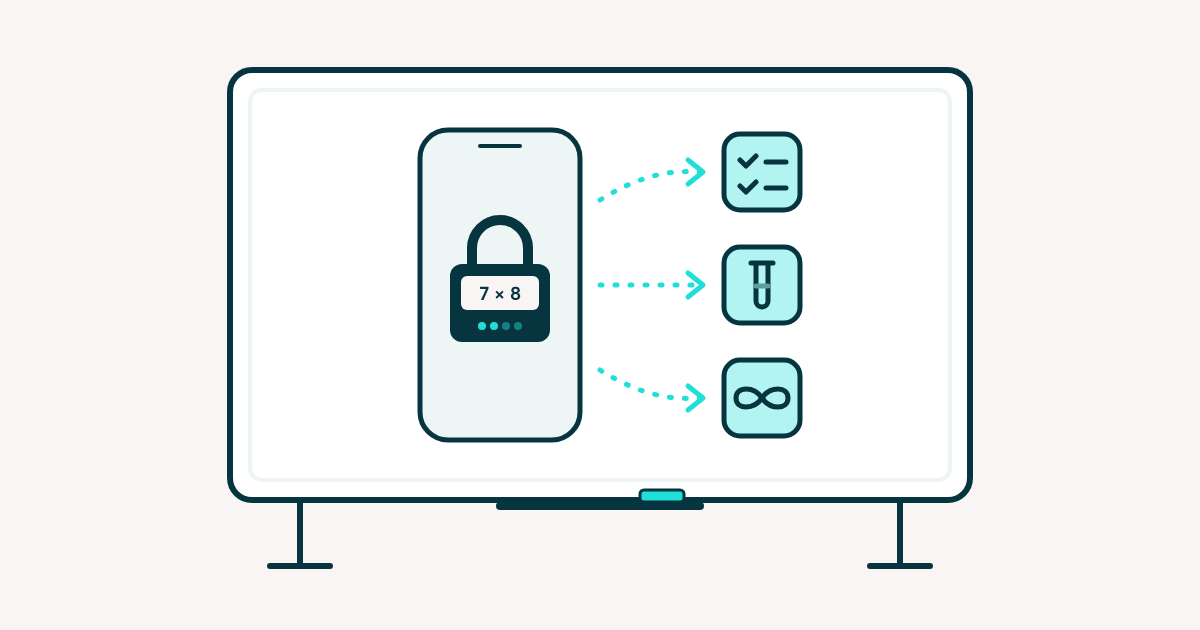
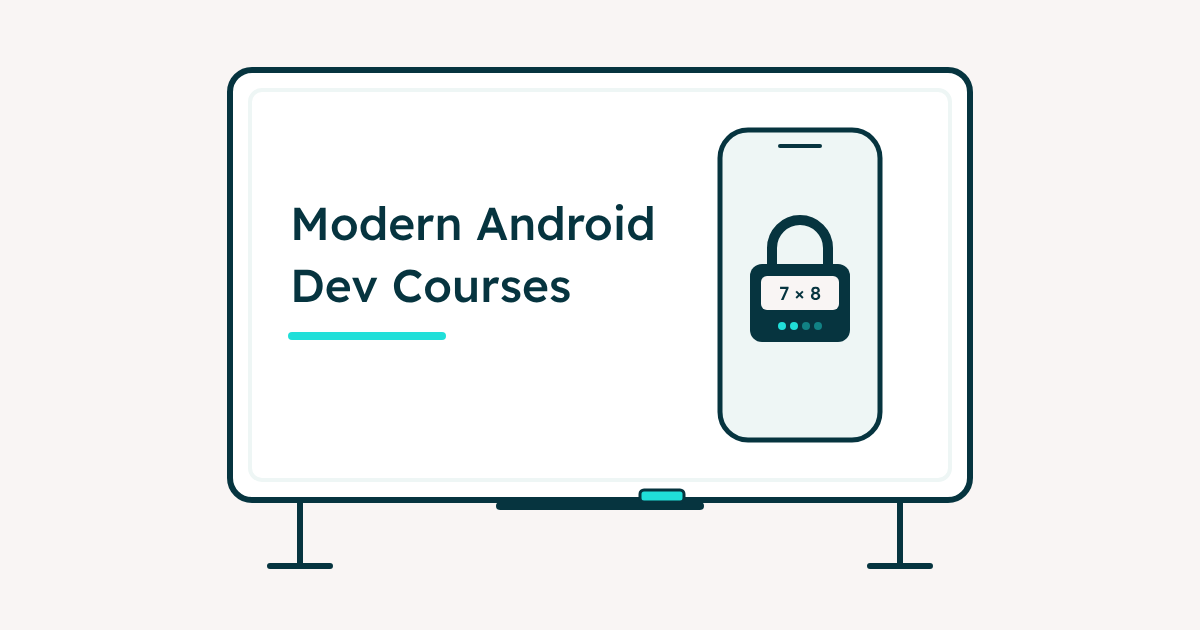
Garden: teaching illustration with course title
Claude-Session: https://claude.ai/code/session_01JyMh7zskpRqVrSxN7TcDeR

diff --git a/src/content/garden/en/teaching-example.md b/src/content/garden/en/teaching-example.md
@@ -2,7 +2,7 @@
 title: PlugBrain as a teaching example
 description: I needed a real app to teach students how mobile apps are built. I didn't want another to-do list.
 date: 2025-06-15
-imageAlt: "A whiteboard with a PlugBrain phone drawn on it, linked by arrows to three icons: a checklist, a test tube and an infinity loop for CI/CD."
+imageAlt: "A whiteboard titled Modern Android Dev Courses, with a PlugBrain phone drawn next to the title."
 stage: seedling
 draft: true
 ---
